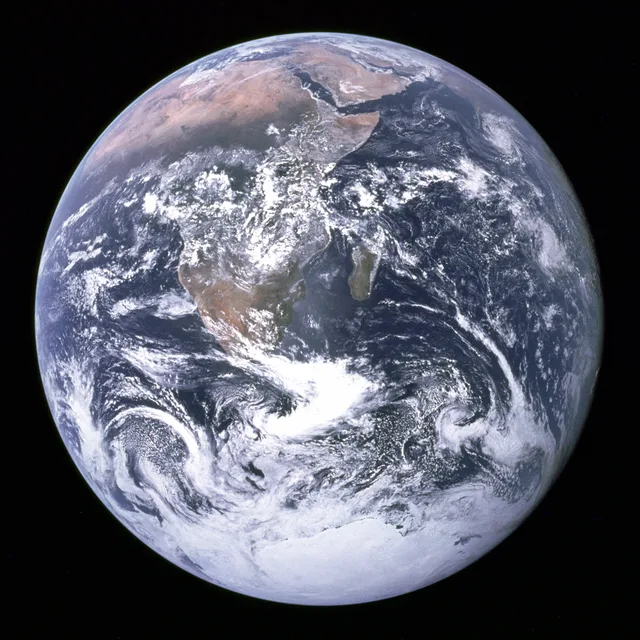
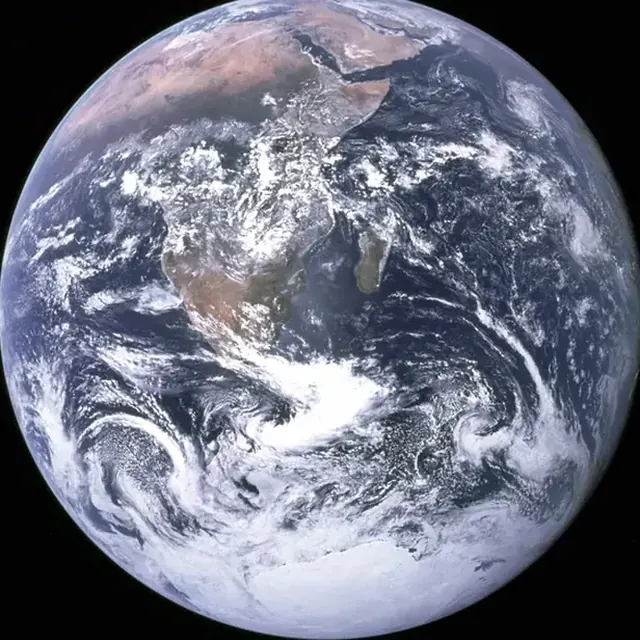
朝アニメ改修: 銀河を渦巻きに + ズーム連続化 + NASA画像の早期フェード重ね
- 天の川: 星3000個・渦状腕2本 + 中心バルジの銀河らしい形に
- 銀河ズームはピタッと止まらず、ズームし続けながら太陽系へバトンタッチ
- NASA画像: ズーム中のかなり早い段階からフェードで重なり始め、
  着地点に早期ロック（軌道の上下揺れを画像に伝えない）
- NASA画像を地球の円盤ピッタリで切り抜き直し（周囲の黒い宇宙を排除、65KB）

diff --git a/src/components/MorningOpening.tsx b/src/components/MorningOpening.tsx
@@ -113,13 +113,13 @@ export function MorningOpening() {
       tw: Math.random() * Math.PI * 2,
     }));
 
-    /* 天の川 */
-    const gal = Array.from({ length: 1500 }, () => ({
-      along: (Math.random() - 0.5) * 2,
-      spread: (Math.random() + Math.random() + Math.random() - 1.5) / 1.5,
-      bright: Math.random(),
-      tw: Math.random() * Math.PI * 2,
-    }));
+    /* 天の川銀河（渦状腕2本 + 中心バルジに星を集める） */
+    const gal = Array.from({ length: 3000 }, () => {
+      const arm = Math.random() < 0.5 ? 0 : Math.PI;
+      const rad = Math.pow(Math.random(), 0.55);
+      const ang = arm + rad * 5.2 + (Math.random() - 0.5) * (0.9 - rad * 0.45);
+      return { rad, ang, bright: Math.random(), tw: Math.random() * Math.PI * 2 };
+    });
 
     /* らせん太陽系（djsadhu 風） */
     const AXIS = -0.1;
@@ -157,8 +157,9 @@ export function MorningOpening() {
 
       /* ---- フェーズ ---- */
       const starIn = span(t, 0, 1400);
-      const galIn = span(t, 1000, 3100) * (1 - span(t, 6200, 7900) * 0.82);
-      const galZoom = 1 + easeInOut(span(t, 2200, 7900)) * 2.4;
+      /* 銀河はズームし続けながら（ピタッと止まらない）太陽系にバトンを渡す */
+      const galIn = span(t, 1000, 3100) * (1 - span(t, 6800, 9600));
+      const galZoom = 1 + easeInOut(span(t, 2200, 10600)) * 3.6;
       /* カメラ: らせん太陽系ごと 3番目の惑星（地球）へクローズアップしていく */
       const camT = easeInOut(span(t, 12200, 15400));
       const fPl = helixPlanets[2];
@@ -231,9 +232,9 @@ export function MorningOpening() {
         g.fill();
         g.restore();
         for (const p of gal) {
-          const x = p.along * bandLen;
-          const y = p.spread * bandWid * (1 - Math.abs(p.along) * 0.45);
-          const core = 1 - Math.min(1, (Math.abs(p.along) * 1.2 + Math.abs(p.spread)) * 0.85);
+          const x = Math.cos(p.ang) * p.rad * bandLen * 0.62;
+          const y = Math.sin(p.ang) * p.rad * bandLen * 0.62 * 0.34; // 傾いた銀河円盤
+          const core = 1 - Math.min(1, p.rad * 1.15);
           const twinkle = 0.7 + 0.3 * Math.sin(t / 700 + p.tw);
           const a = galIn * cosmicAlpha * (0.14 + p.bright * 0.5 + core * 0.35) * twinkle;
           g.fillStyle =
@@ -321,14 +322,16 @@ export function MorningOpening() {
         g.restore();
       }
 
-      /* ---- 地球（NASA 実画像）: クローズアップした3番目の惑星からゆっくり浮かび上がる ---- */
-      const earthAppear = span(t, 13100, 15700);
+      /* ---- 地球（NASA 実画像）: ズーム中からもうフェードで重なり始めている ---- */
+      const earthAppear = span(t, 12300, 15200);
       if (earthAppear > 0.001) {
-        const cx = fx + panX; // カメラの固定点 = 3番目の惑星の見かけ位置
-        const cy = fy + panY;
-        const r = 5 + (tr - 5) * easeInOut(span(t, 12800, 15400));
+        // 惑星の見かけ位置から早めに着地点へロック（軌道の上下揺れを画像に伝えない）
+        const lockT = easeInOut(span(t, 12300, 14000));
+        const cx = (fx + panX) * (1 - lockT) + tx * lockT;
+        const cy = (fy + panY) * (1 - lockT) + ty * lockT;
+        const r = 5 + (tr - 5) * easeInOut(span(t, 12300, 15000));
         const mist = easeInOut(span(t, 16400, TOTAL)); // キリの中へ溶けて OTOHIKARI へ譲る
-        earth.style.opacity = String(Math.min(1, earthAppear * 1.5) * (1 - mist));
+        earth.style.opacity = String(easeInOut(earthAppear) * (1 - mist));
         earth.style.filter = `blur(${(1 - easeInOut(earthAppear)) * 4 + mist * 14}px)`;
         earth.style.transform = `translate(${cx - r}px, ${cy - r}px)`;
         earth.style.width = `${r * 2}px`;
